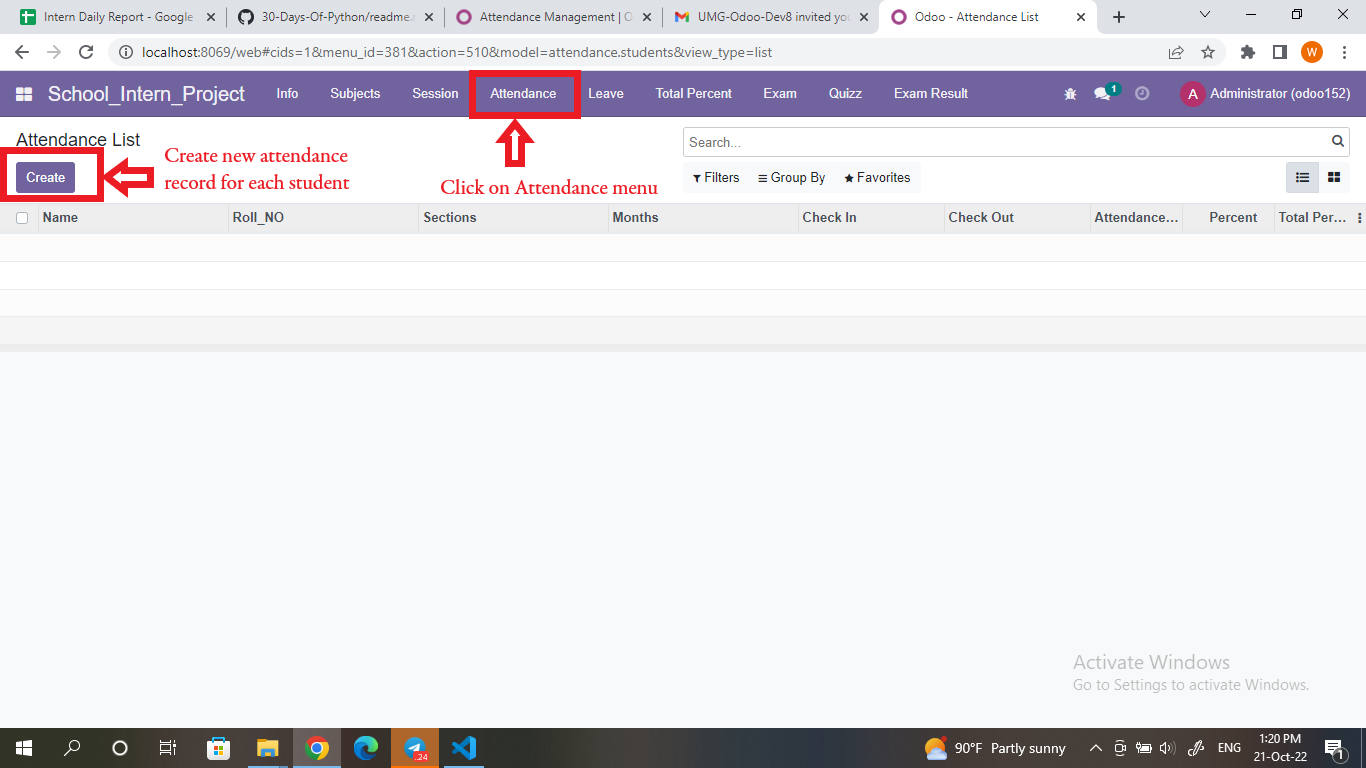
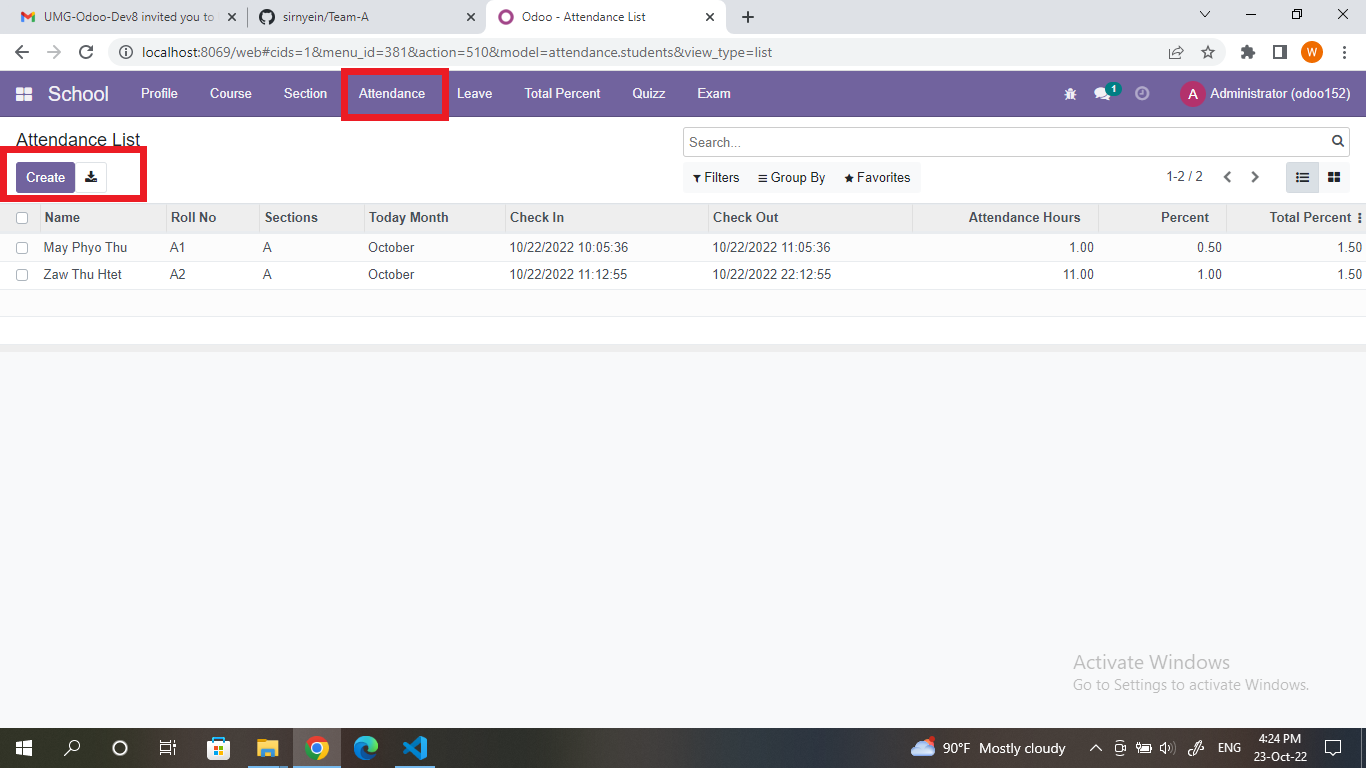
User's manual Update by wwk

diff --git a/Team_A.md b/Team_A.md
@@ -11,7 +11,7 @@
 - [Project Overview](#project-overview)
 - [Custom Module Installation](#custom-module-installation)
 - [Operation](#operation)
-    - [Create Subjects](#create-subjects)
+    - [Create Courses](#create-courses)
     - [Create Data](#create-data)
     - [Add Data into Sections](#add-data-into-sections)
     - [Create Attendance](#create-attendance)
@@ -34,29 +34,29 @@ To run this system you need to install our custom module in odoo version 15. By 
 
 ## Operation
 
-### Create Subjects
-Firstly, go to ***Subject*** menu and create subjects by clicking create button.When you click it, you will get this kind of interface.
-![create subjects](./images/subject_create.png)
+### Create Courses
+Firstly, go to ***Course*** menu and create new course by clicking create button.When you click it, you will get this kind of interface.
+![create courses](./images/course.png)
 
- In this form view, you can add totoal chapters of related subject and can define course start-date and end-date.
-![create subjects](./images/subject.png)
+ In this form view, you can add totoal chapters of related course and can define course start-date and end-date.
+![create courses](./images/course_create.png)
 
 ### Create Data
-Click ***Info*** menu and create new data like studens' info and teachers'info.
+Click ***Profile*** menu and create new data like studens' info and teachers'info.
 
-![create data](./images/new_info.png)
+![create data](./images/new_profile.png)
 
 Choose role (teacher head,teacher or student), fill required informations and save by clicking save button.<br>
 
 Create new Student
-![create data](./images/student.png)
+![create data](./images/new_student.png)
 Create new Teacher
-![create data](./images/teacher.png)
+![create data](./images/new_teacher.png)
 Create new Teacher Head
-![create data](./images/teacher_head.png)
+![create data](./images/new_t_head.png)
 
 Can see same role in a collection by chosing this options
-![create data](./images/search_panel.png)
+![create data](./images/searchc_panel.png)
 
 
 ### Add Data into Sections
@@ -69,26 +69,34 @@ After creating needed data, you can add these data into sections. A section can 
 ### Create Attendance
 Click on ***Attendance*** menuitem and create new attendance record for each student
 ![attendance](./images/attendance.png)
-Need to add today's month.
-![attendance](./images/attendance_record.png)
+
+Need to add today's month. After adding check-in,check-out time, attendance hours and roll-call point(roll-call percent) of that day will be automatically caculated.
+![attendance](./images/attendance_create.png)
 
 ### Request Leave
-To request leave go to ***Leave*** menuitem. Can choose leave type,can define wanted durations by  selecting start date and end date.
+To request leave go to ***Leave*** menuitem. 
 ![leave](./images/leave.png)
-Add today's month.
-![leave](./images/leave_req.png)
+
+Add month name you want to leave. Can choose leave type,can define wanted durations by  selecting start date and end date.
+![leave](./images/leave_create.png)
+
 
 ### View Roll call Percentage
 To See roll call percentage of each student, go to ***Total Percent*** menu.And then, by selecting student's name, can view that student's attendance record and roll call percent.
-![total precent](./images/total_percent.png)
-Insert today's month
-![total precent](./images/total_percent_for_one.png)
+![total percent](./images/total_percent.png)
+
+Select student's name and insert the name of month you want to view
+![total percent](./images/total_pecent_view.png)
 
 ### Create Exam Questions
 Go to ***Quizz***  menu and write questions and define correct answers. Can also define scores for each questions and can hide some questions that do not want to show in exam form view by removing check mark  in the active column .
+
 ![quizz](./images/quizz.png)
-![quizz](./images/quizz_hide.png)
+![quizz](./images/quizz_create.png)
 
 ### Test Exam and Generate Result
-To answer exam questons go to ***Exam*** menu and answer. After answering of each question, click submit button to see exam result.
-![App Screenshot](https://via.placeholder.com/468x300?text=App+Screenshot+Here)
+To answer exam questions go to ***Exam*** menu. Choose course name and student whose roll-call precentage is at least 75%.
+![exam](./images/exam.jpg)
+
+After selecting course, you can answer questions. And then, click submit button to see your result.
+![exam](./images/exam_result.jpg)
